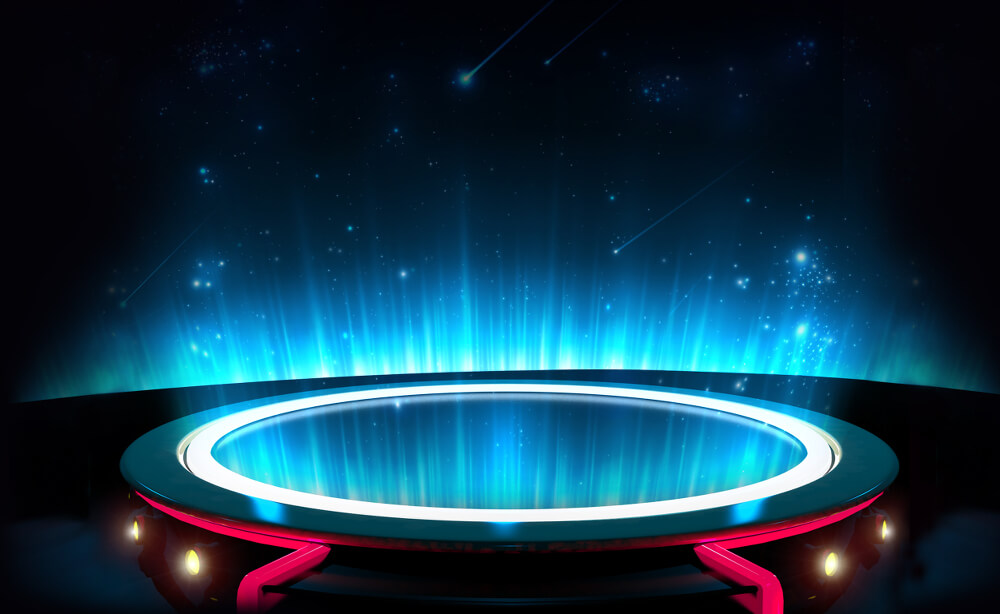
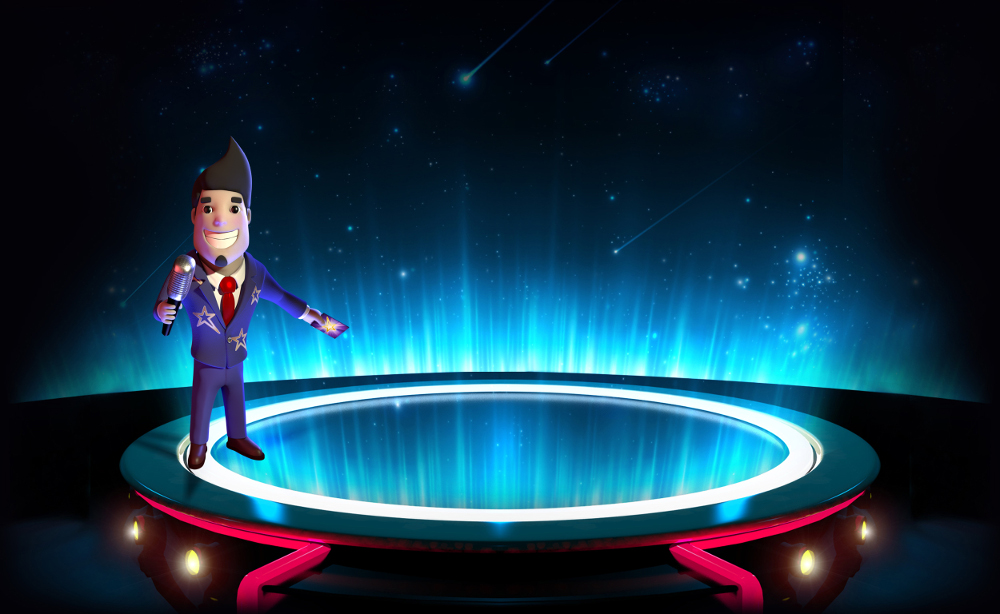
Combine pat with background

diff --git a/partials/hero.html b/partials/hero.html
@@ -1,8 +1,7 @@
 <div class="hero" id="home">
 
-  <!-- Hero image -->
   <div class="hero__img col-sm-5 hidden-xs">
-    <img src="img/pat.png" class="img-responsive" alt="Pat">
+    <!-- Placeholder for pat -->
   </div>
 
   <div class="container">
